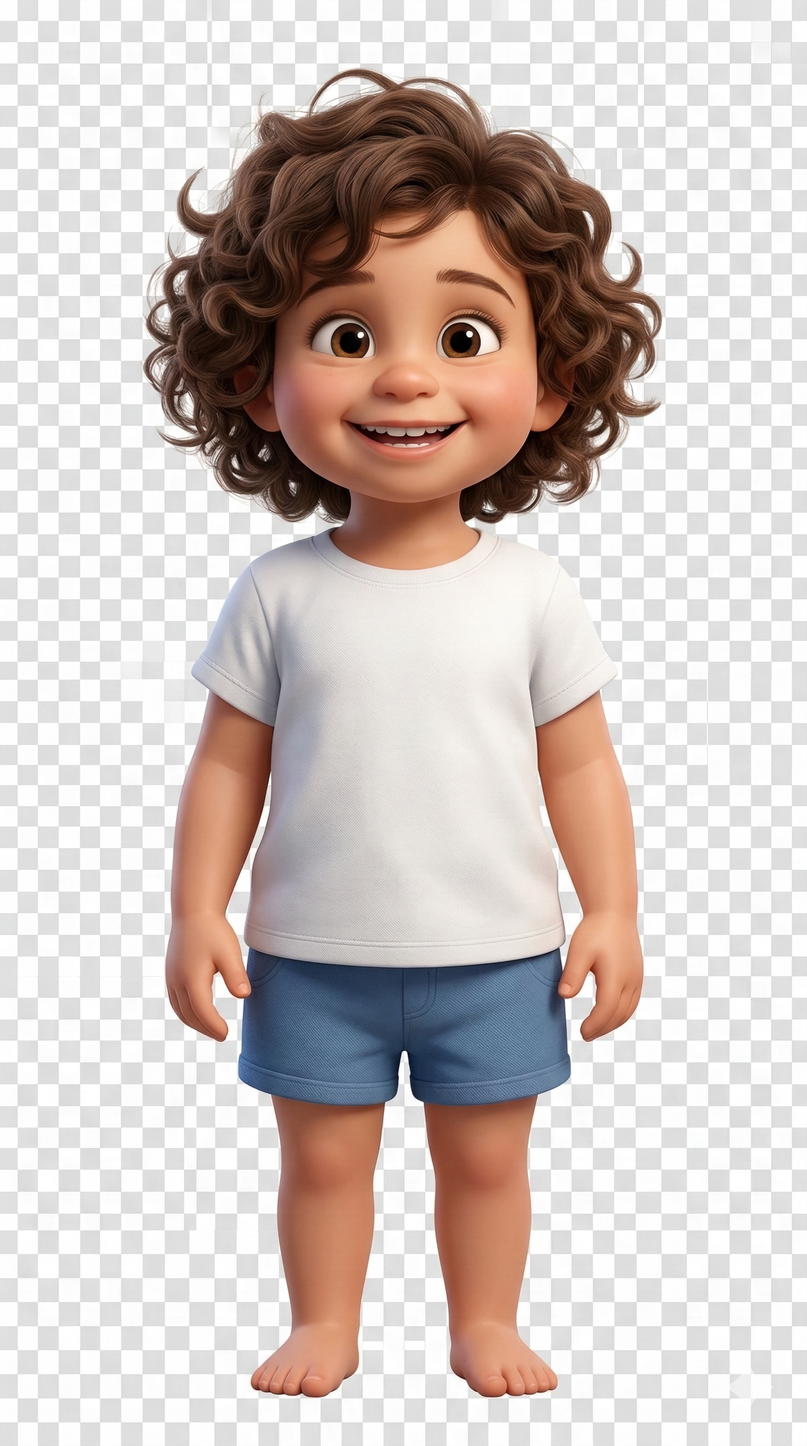
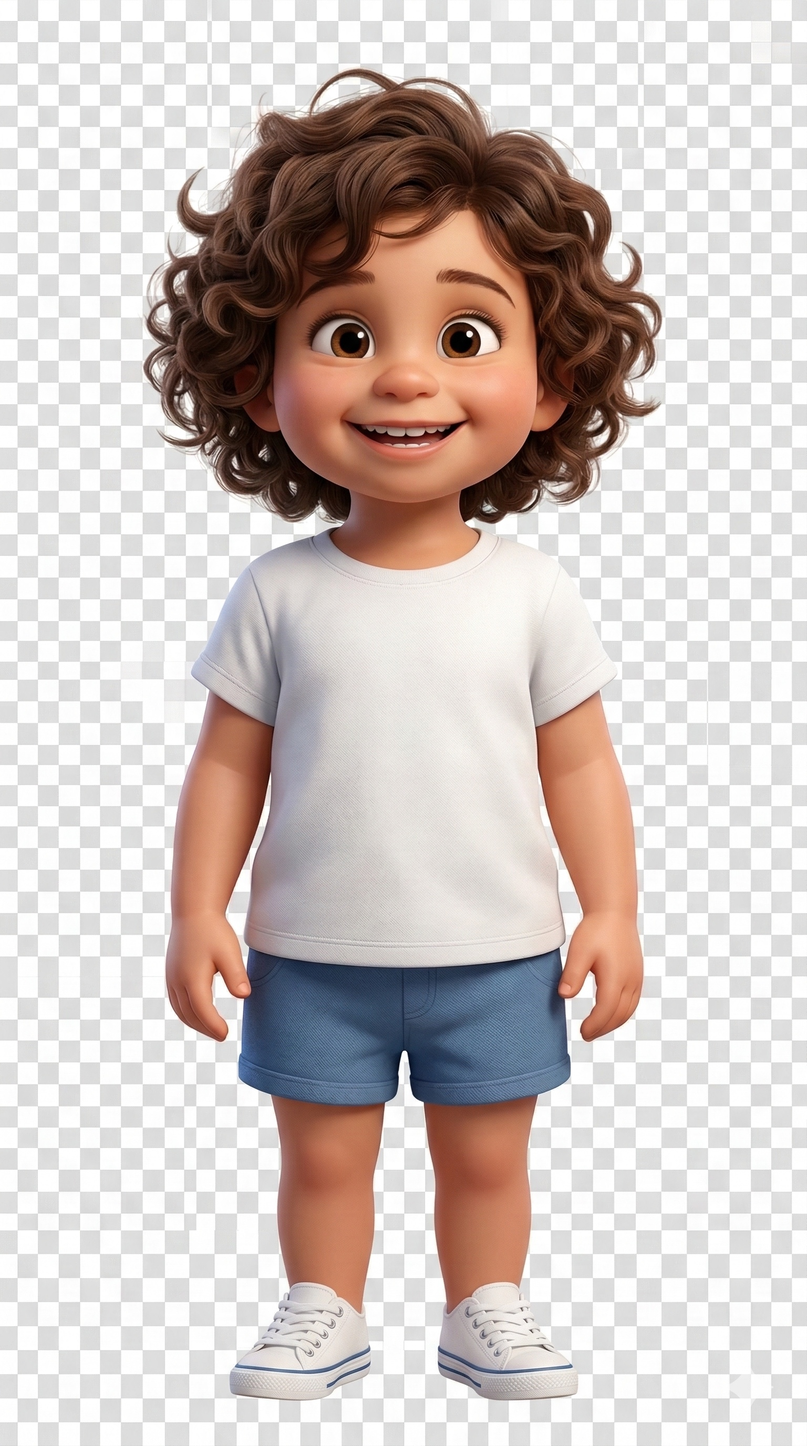
Rename Morah Sarah→Sara, Joselyn→Jocelyn in text, update Shai image

diff --git a/src/data/story.ts b/src/data/story.ts
@@ -15,7 +15,7 @@ export type Scene = {
 export const scenes: Record<string, Scene> = {
   opening: {
     id: "opening",
-    text: "Good morning! The sun is shining over Gan West preschool in Los Angeles. Morah Sarah, the school director, opens the big blue doors with a warm smile. Inside, the classroom is bright and cheerful — Teacher Elizabeth, Teacher Virginia, and Teacher Joselyn are busy setting up for a wonderful day!",
+    text: "Good morning! The sun is shining over Gan West preschool in Los Angeles. Morah Sara, the school director, opens the big blue doors with a warm smile. Inside, the classroom is bright and cheerful — Teacher Elizabeth, Teacher Virginia, and Teacher Jocelyn are busy setting up for a wonderful day!",
     characters: ["sarah", "elizabeth", "virginia", "joselyn"],
     background: "classroom",
     next: "arrivals-1",
@@ -36,7 +36,7 @@ export const scenes: Record<string, Scene> = {
   },
   "first-choice": {
     id: "first-choice",
-    text: "Everyone is here! Morah Sarah claps her hands and says, \"Boker tov, yeladim! Good morning, children! What should we do first?\"",
+    text: "Everyone is here! Morah Sara claps her hands and says, \"Boker tov, yeladim! Good morning, children! What should we do first?\"",
     characters: ["sarah"],
     background: "classroom",
     choices: [
@@ -53,7 +53,7 @@ export const scenes: Record<string, Scene> = {
   },
   "free-play": {
     id: "free-play",
-    text: "Time to play! Shai and Desi build a tall tower with blocks — it almost reaches the ceiling! Aila and Mia Alexandra are playing in the toy kitchen, making pretend challah. Chaya is drawing a rainbow, and Mason reads a book with Teacher Joselyn. So many fun things to do!",
+    text: "Time to play! Shai and Desi build a tall tower with blocks — it almost reaches the ceiling! Aila and Mia Alexandra are playing in the toy kitchen, making pretend challah. Chaya is drawing a rainbow, and Mason reads a book with Teacher Jocelyn. So many fun things to do!",
     characters: ["shai", "desi", "aila", "mia-alexandra", "chaya", "mason", "joselyn"],
     background: "playroom",
     next: "snack-time",
@@ -73,7 +73,7 @@ export const scenes: Record<string, Scene> = {
     choices: [
       { label: "\ud83c\udf33 Check the playground!", nextScene: "search-playground" },
       { label: "\ud83c\udfa8 Check the art room!", nextScene: "search-art" },
-      { label: "\ud83d\udc69\u200d\ud83c\udfeb Ask Morah Sarah!", nextScene: "search-sarah" },
+      { label: "\ud83d\udc69\u200d\ud83c\udfeb Ask Morah Sara!", nextScene: "search-sarah" },
     ],
   },
   "search-playground": {
@@ -92,7 +92,7 @@ export const scenes: Record<string, Scene> = {
   },
   "search-sarah": {
     id: "search-sarah",
-    text: "The kids go to Morah Sarah's office. \"Morah Sarah, Sparkle is missing!\" says Desi. Morah Sarah smiles and says, \"I think I saw her near the book corner!\" They all rush over, and sure enough — Sparkle is snuggled up inside a big storybook! She wanted to read a story too!",
+    text: "The kids go to Morah Sara's office. \"Morah Sara, Sparkle is missing!\" says Desi. Morah Sara smiles and says, \"I think I saw her near the book corner!\" They all rush over, and sure enough — Sparkle is snuggled up inside a big storybook! She wanted to read a story too!",
     characters: ["sarah", "desi", "mia-alexandra"],
     background: "office",
     next: "found-sparkle",
@@ -106,7 +106,7 @@ export const scenes: Record<string, Scene> = {
   },
   "art-choice": {
     id: "art-choice",
-    text: "Now it's time for an art project! Teacher Joselyn sets out the supplies on the big craft table. \"What should we make today?\" she asks with a big smile.",
+    text: "Now it's time for an art project! Teacher Jocelyn sets out the supplies on the big craft table. \"What should we make today?\" she asks with a big smile.",
     characters: ["joselyn"],
     background: "art-room",
     choices: [
@@ -116,14 +116,14 @@ export const scenes: Record<string, Scene> = {
   },
   "art-challah": {
     id: "art-challah",
-    text: "Time to make challah! But not the kind you eat — the kind you make with playdough! Everyone rolls and braids their dough, just like real challah. Mason makes a tiny one, and Chaya makes a GIANT one. Teacher Joselyn helps Desi braid his, and they all paint their challahs golden brown. Beautiful!",
+    text: "Time to make challah! But not the kind you eat — the kind you make with playdough! Everyone rolls and braids their dough, just like real challah. Mason makes a tiny one, and Chaya makes a GIANT one. Teacher Jocelyn helps Desi braid his, and they all paint their challahs golden brown. Beautiful!",
     characters: ["joselyn", "mason", "chaya", "desi"],
     background: "art-room",
     next: "outdoor-play",
   },
   "art-mezuzah": {
     id: "art-mezuzah",
-    text: "Everyone gets a little wooden mezuzah to decorate! They use glitter, stickers, and paint to make them sparkly and special. Mia Alma covers hers in purple glitter, Desi paints stars on his, and Aila adds tiny heart stickers. \"These are for your front doors at home!\" says Teacher Joselyn.",
+    text: "Everyone gets a little wooden mezuzah to decorate! They use glitter, stickers, and paint to make them sparkly and special. Mia Alma covers hers in purple glitter, Desi paints stars on his, and Aila adds tiny heart stickers. \"These are for your front doors at home!\" says Teacher Jocelyn.",
     characters: ["joselyn", "mia-alma", "desi", "aila"],
     background: "art-room",
     next: "outdoor-play",
@@ -144,7 +144,7 @@ export const scenes: Record<string, Scene> = {
   },
   closing: {
     id: "closing",
-    text: "What a wonderful day at Gan West! Now it's time to go home. The parents arrive one by one, and each kid gets a big hug from the teachers. \"See you next week!\" everyone says. Cru waves, Mia Alma blows a kiss, and little Aila gives one last hug to Morah Sarah.",
+    text: "What a wonderful day at Gan West! Now it's time to go home. The parents arrive one by one, and each kid gets a big hug from the teachers. \"See you next week!\" everyone says. Cru waves, Mia Alma blows a kiss, and little Aila gives one last hug to Morah Sara.",
     characters: ["sarah", "elizabeth", "virginia", "joselyn", "cru", "mia-alma", "aila"],
     background: "entrance",
     next: "end",
